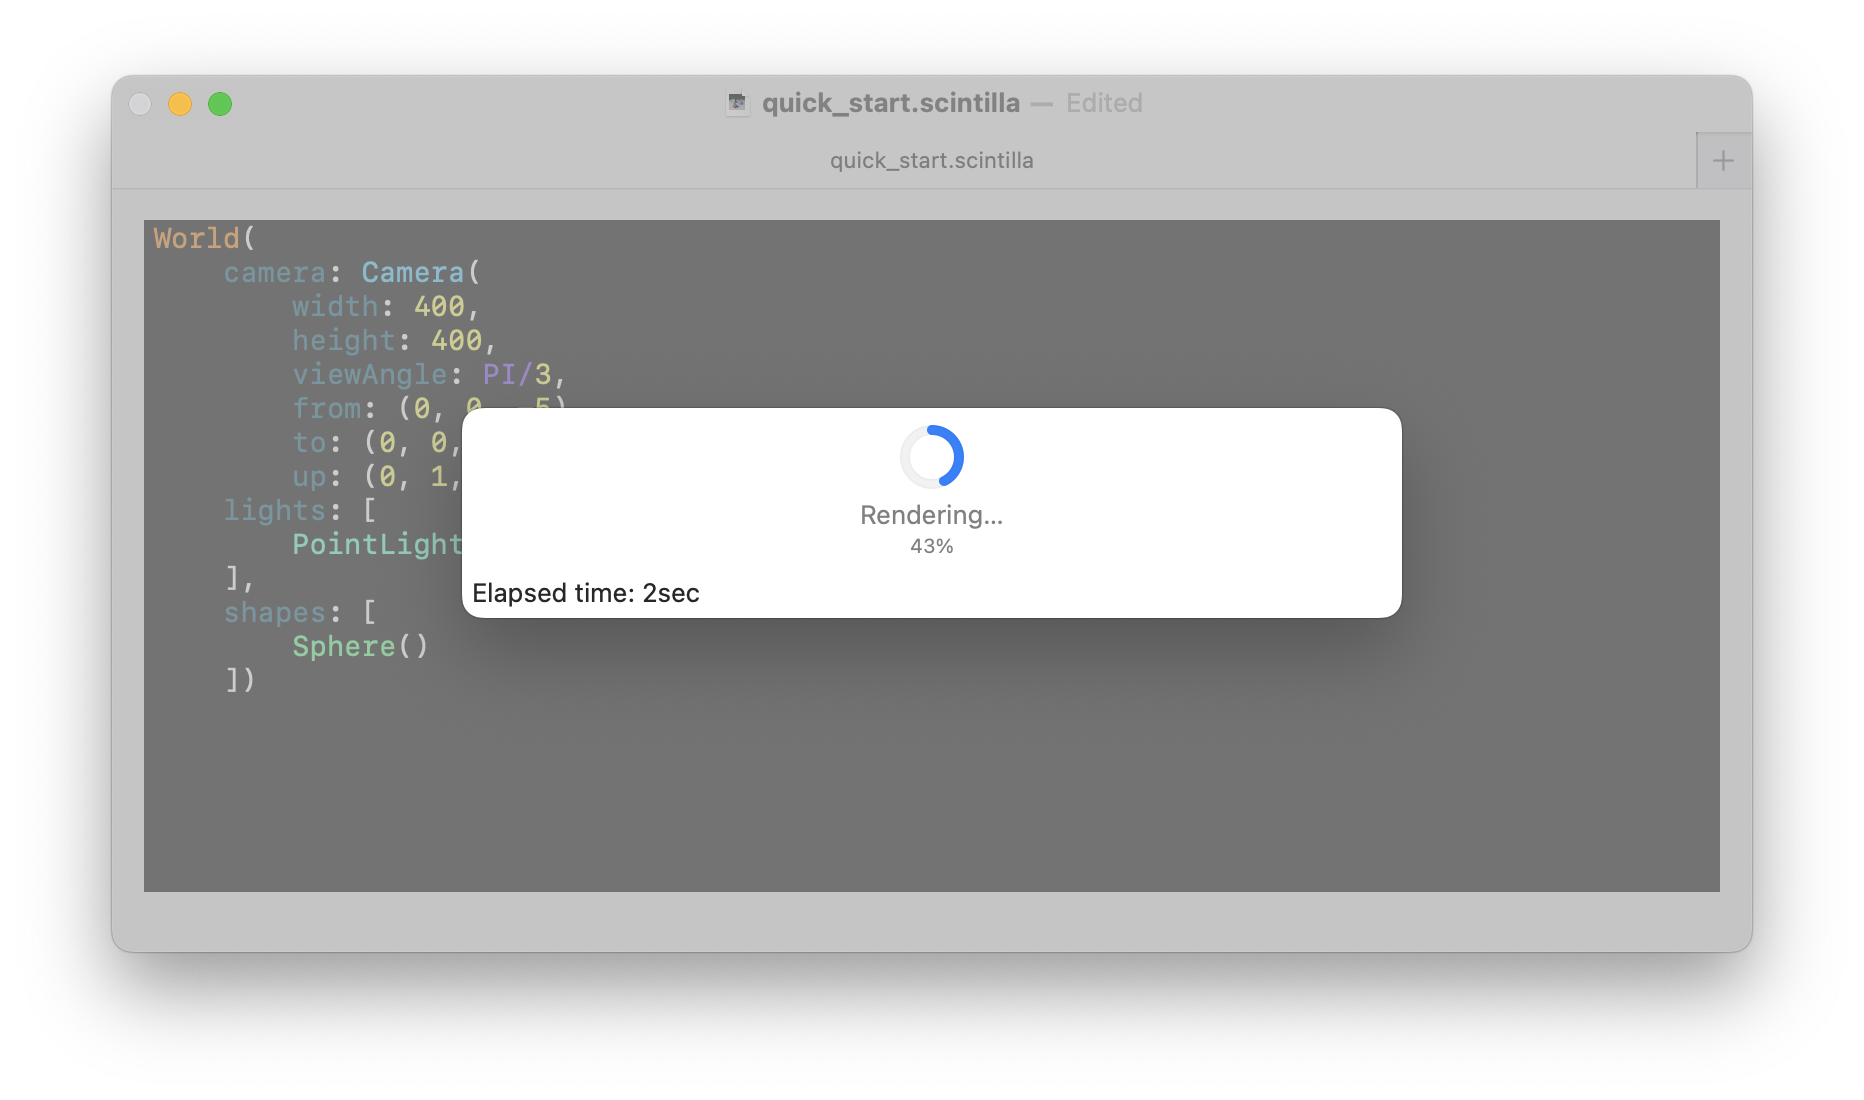
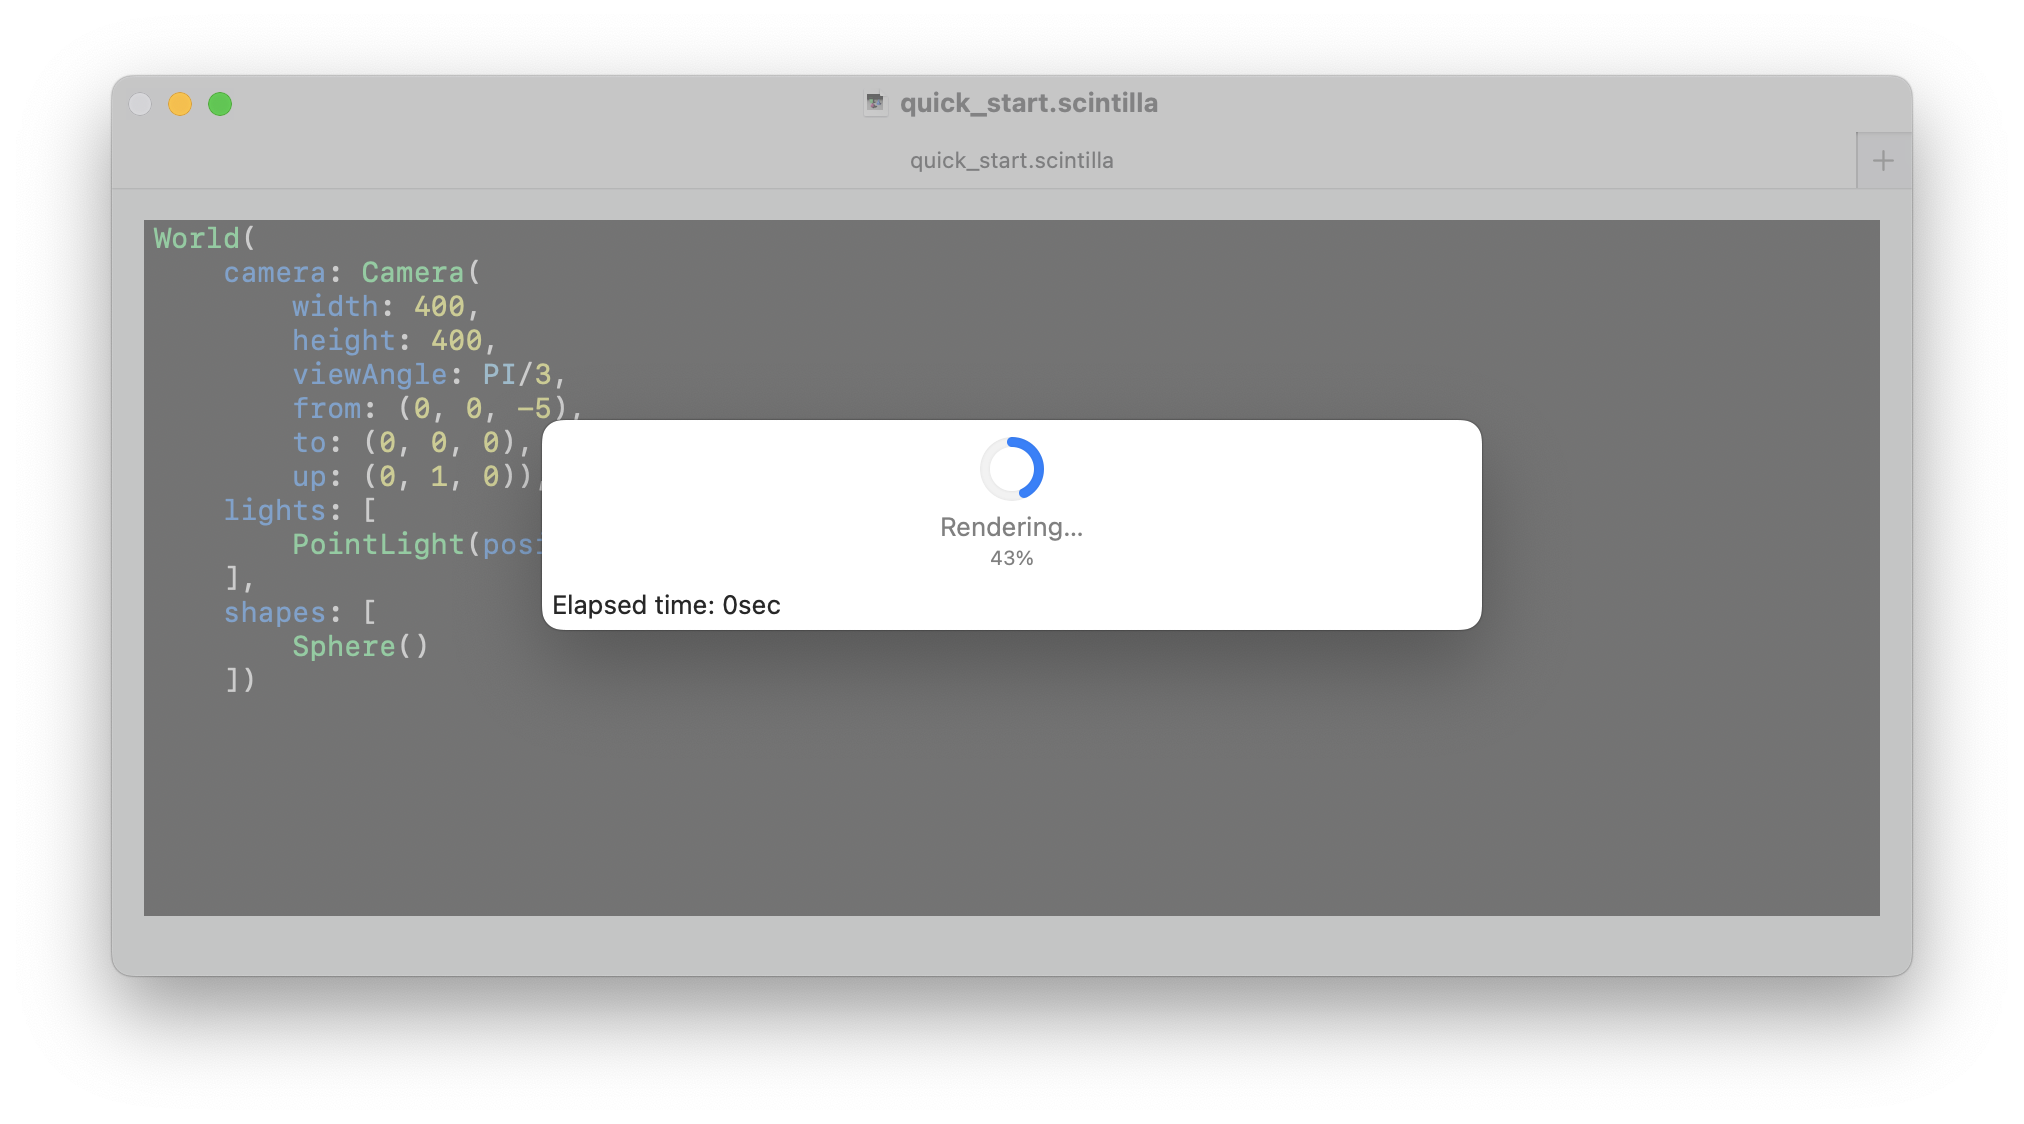
Updated README to be consistent with recent changes to highlighting.

diff --git a/README.md b/README.md
@@ -49,14 +49,13 @@ The application is using the so-called `DocumentGroup` component in SwiftUI and 
 
 Scintilla's text editor also has syntax highlighting with the following color scheme:
 
-* `World` is in orange
-* `Camera` is in light blue
-* All lights are in sea green
-* All shapes are in bright green
+* All object constructors (e.g., `Sphere()`) are in bright green
+* All methods (e.g., `translate()`) are in dark green
+* All builtin functions (e.g., `sin()`) are in orange
 * All parameter names are in cadet blue
 * All numbers are in yellow
 * All punctuation is in white
-* Everything else is in purple
+* Everything else is in light blue
 
 ![](./images/editor.png)
 
